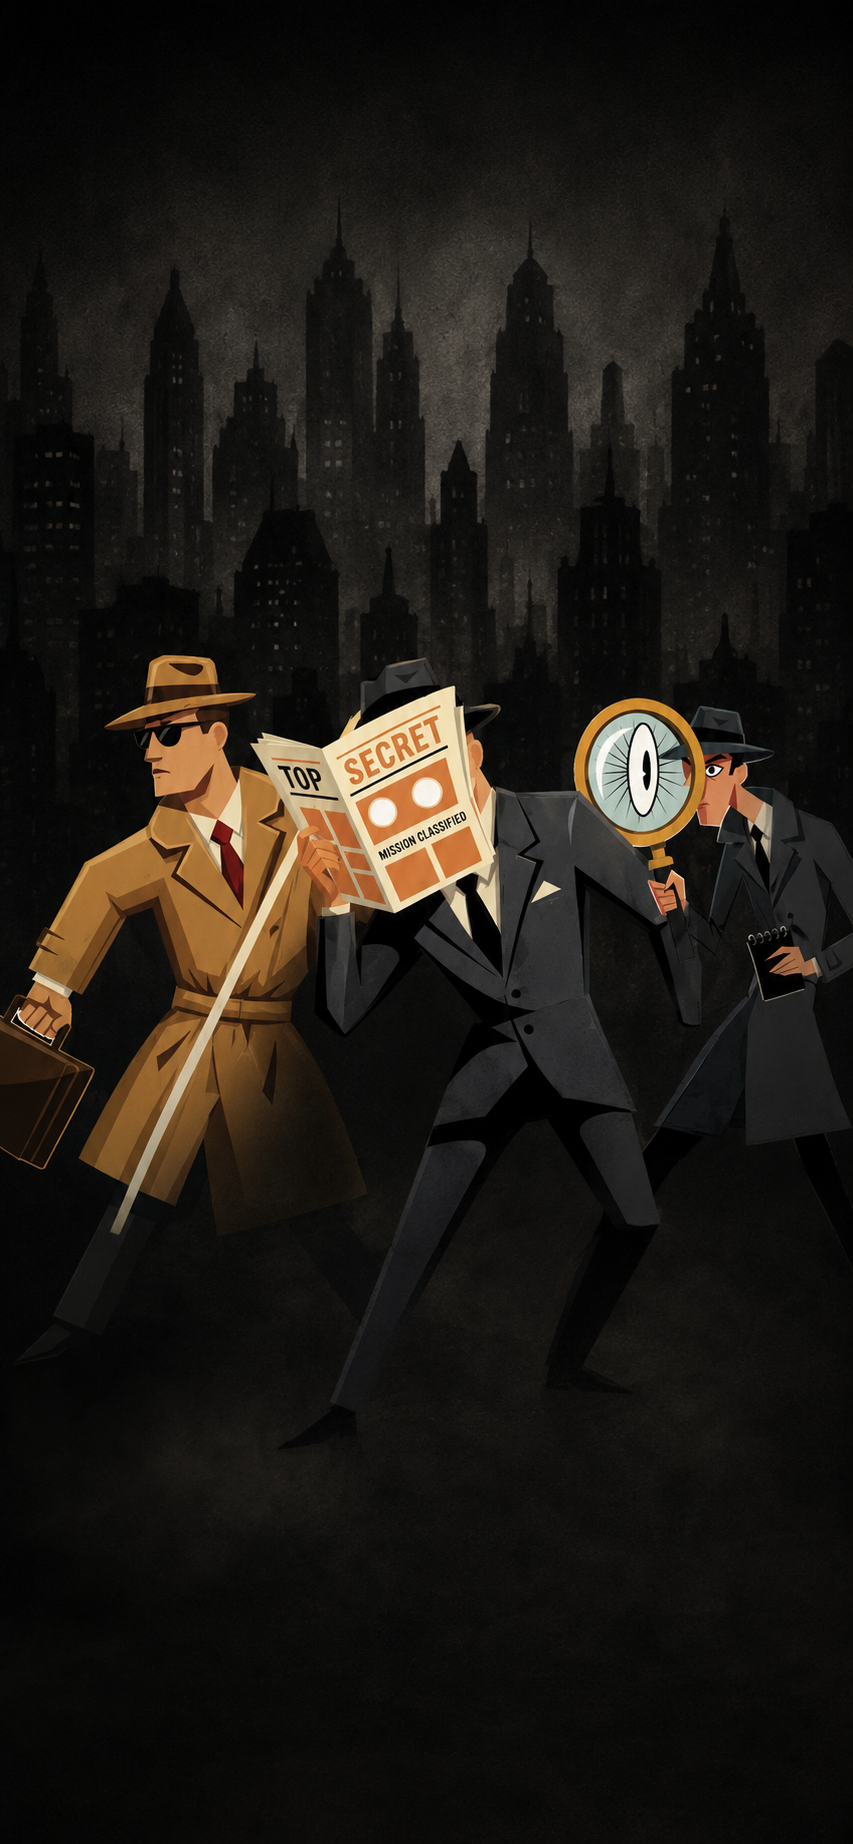
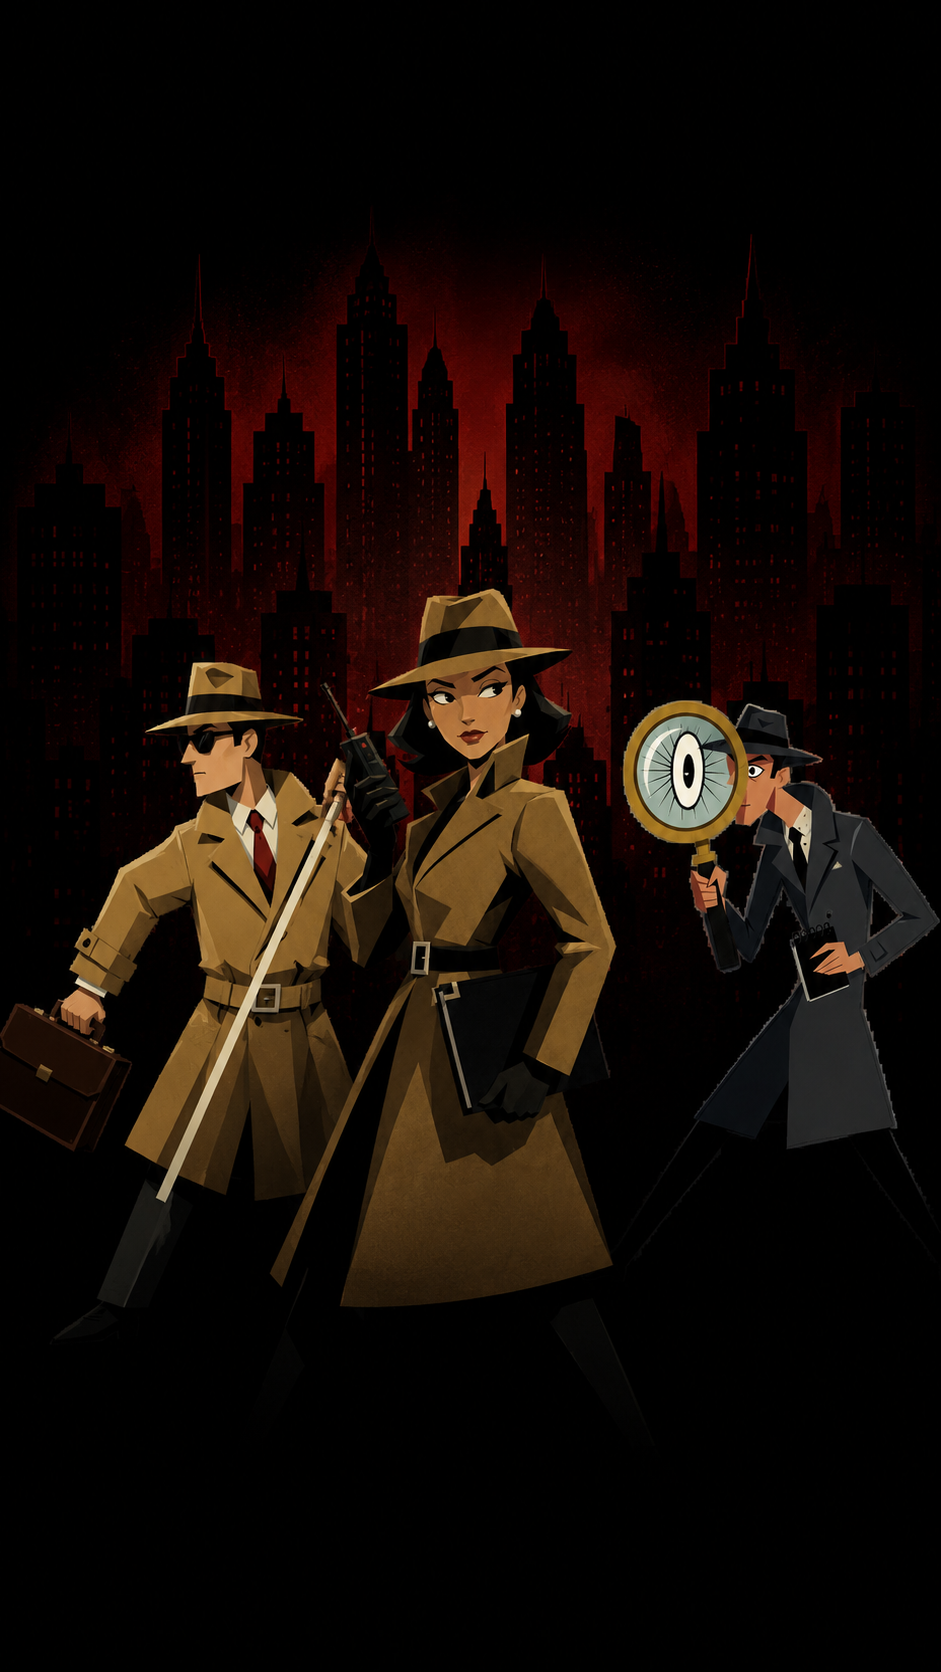
fix join page height

diff --git a/app/mission/join.tsx b/app/mission/join.tsx
@@ -127,7 +127,7 @@ const styles = StyleSheet.create({
     heroContainer: {
         alignItems: 'center',
         justifyContent: 'center',
-        height: 180, // Further reduced to ensure everything fits on smaller phones
+        height: 160, // Reduced from 180 to ensure everything fits on smaller phones
         marginTop: 0,
         marginBottom: 5,
     },
@@ -137,7 +137,7 @@ const styles = StyleSheet.create({
     },
     contentWrapper: {
         paddingHorizontal: 20,
-        gap: 10,
+        gap: 8, // Reduced from 10
         paddingBottom: 10,
     },
     cardRow: {
@@ -145,7 +145,7 @@ const styles = StyleSheet.create({
         borderRadius: 8,
         borderWidth: 1,
         borderColor: 'rgba(255, 255, 255, 0.08)',
-        padding: 15,
+        padding: 12, // Reduced from 15
         flexDirection: 'row',
         alignItems: 'center',
     },
@@ -154,7 +154,7 @@ const styles = StyleSheet.create({
         borderRadius: 8,
         borderWidth: 1,
         borderColor: 'rgba(255, 255, 255, 0.08)',
-        padding: 15,
+        padding: 12, // Reduced from 15
     },
     cardIconContainer: {
         marginRight: 15,
@@ -166,20 +166,20 @@ const styles = StyleSheet.create({
         paddingRight: 10,
     },
     manualTextContainer: {
-        marginBottom: 15,
+        marginBottom: 10, // Reduced from 15
     },
     cardTitle: {
         fontFamily: 'BebasNeue-Bold',
-        fontSize: 20,
+        fontSize: 19, // Reduced slightly from 20
         color: '#D1D1D1',
         letterSpacing: 1,
-        marginBottom: 4,
+        marginBottom: 2, // Reduced from 4
     },
     redUnderline: {
         width: 30,
         height: 2,
         backgroundColor: Theme.colors.red,
-        marginBottom: 8,
+        marginBottom: 6, // Reduced from 8
     },
     cardSubtitle: {
         fontFamily: 'Montserrat-Regular',
@@ -191,7 +191,7 @@ const styles = StyleSheet.create({
         flexDirection: 'row',
         alignItems: 'center',
         paddingHorizontal: 30,
-        marginVertical: 5,
+        marginVertical: 0, // Reduced from 5
     },
     dividerLine: {
         flex: 1,
@@ -212,8 +212,8 @@ const styles = StyleSheet.create({
         borderWidth: 1,
         borderColor: 'rgba(255, 255, 255, 0.1)',
         paddingHorizontal: 15,
-        height: 45,
-        marginBottom: 10,
+        height: 42, // Reduced from 45
+        marginBottom: 8, // Reduced from 10
     },
     inputError: {
         borderColor: Theme.colors.red,
@@ -239,7 +239,7 @@ const styles = StyleSheet.create({
         flexDirection: 'row',
         alignItems: 'center',
         justifyContent: 'center',
-        height: 45,
+        height: 42, // Reduced from 45
         borderRadius: 6,
     },
     joinButtonDisabled: {

diff --git a/app/(tabs)/index.tsx b/app/(tabs)/index.tsx
@@ -41,7 +41,7 @@ export default function AgentHomeScreen() {
   }, [showSplash, hasLaunched, setHasLaunched]);
 
   const handleSplashFinish = () => {
-    setShowSplash(false);
+    // setShowSplash(false);
     setHasLaunched();
     if (!isFirstSetupDone) {
       setShowProfileModal(true);